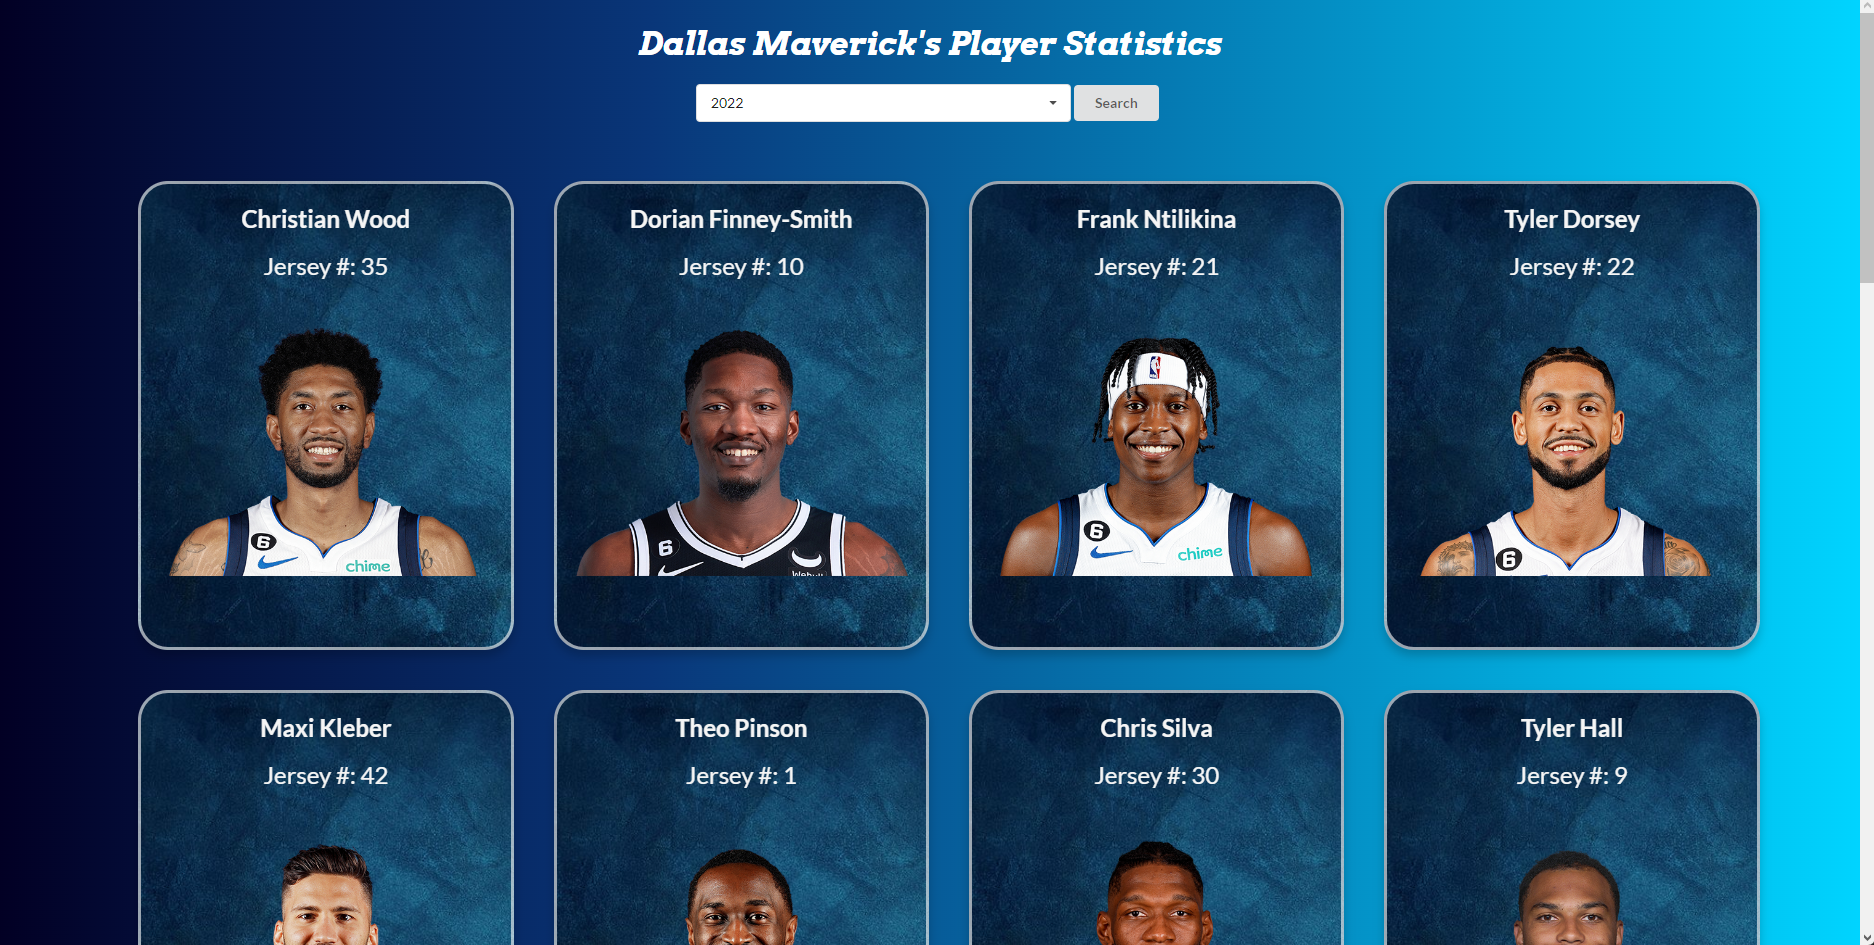
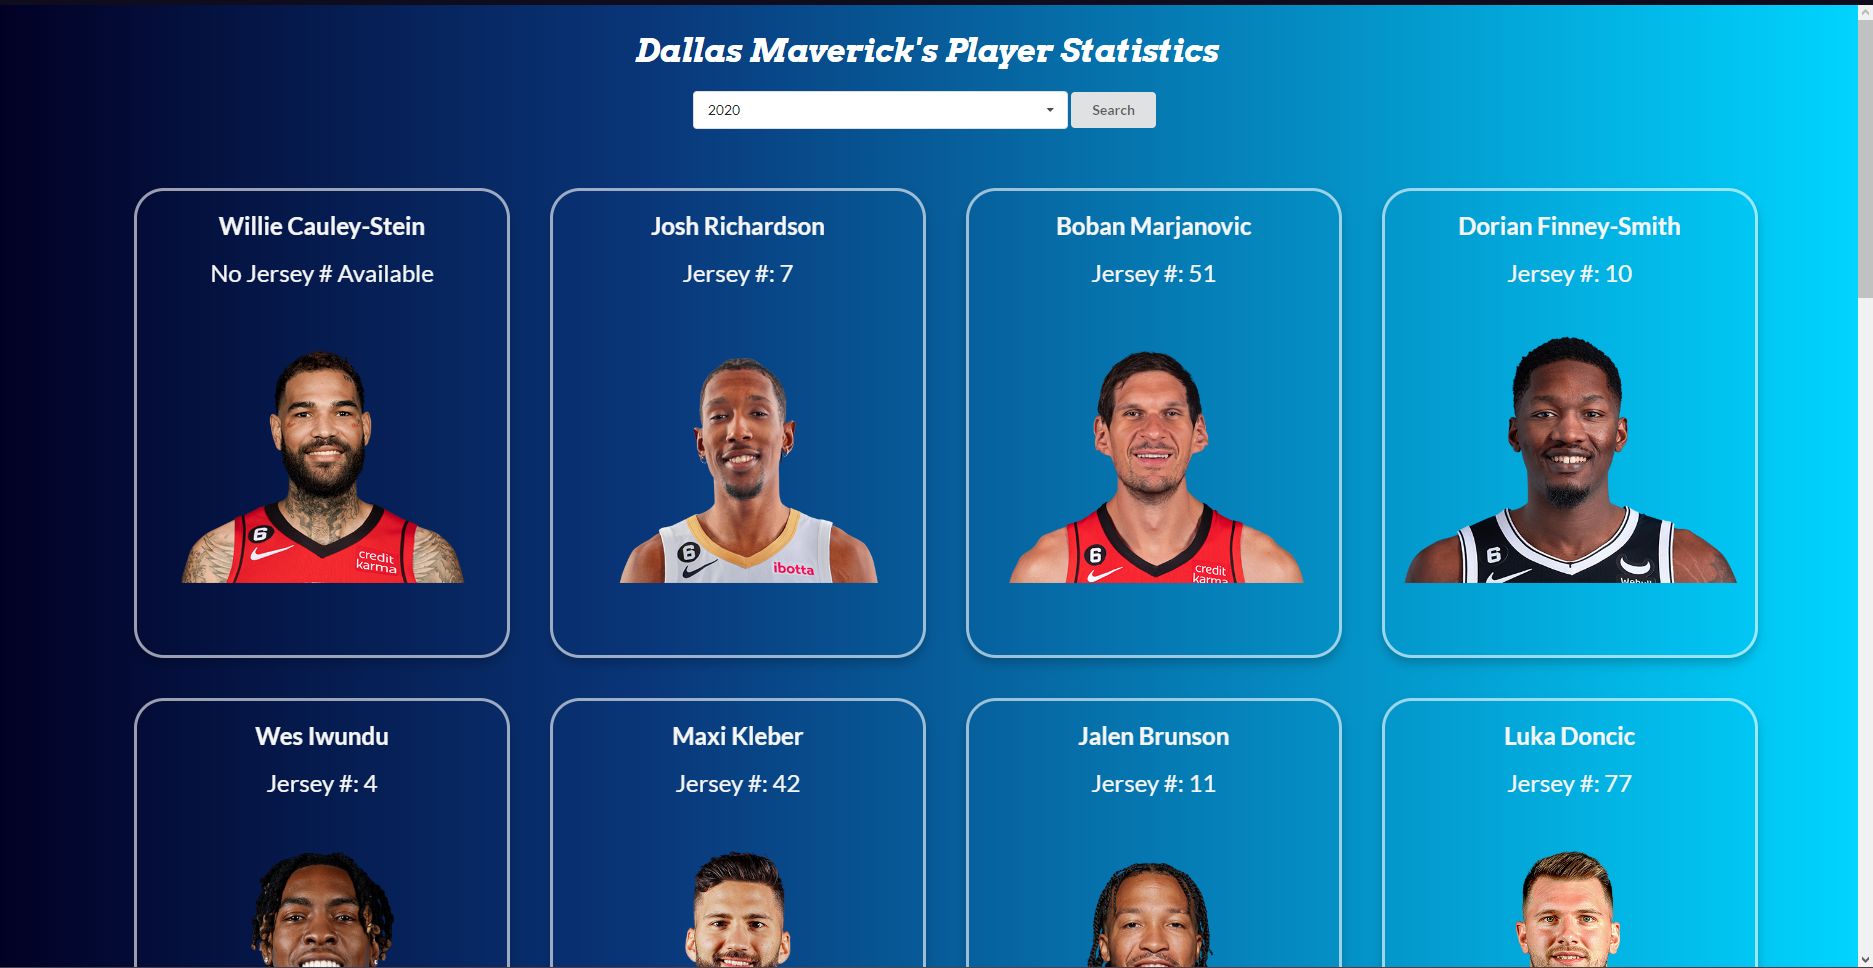
removed background image and updated README

diff --git a/assets/css/style.css b/assets/css/style.css
@@ -47,9 +47,6 @@ p {
     width:20vw;
     height:25vw;
     margin:20px;
-    background-image: url(/assets/images/back-ground-picture.png);
-    background-repeat: repeat;
-    background-size: cover;
     border-radius: 30px;
     border-style: solid;
     border-color: rgba(255, 255, 255, 0.6);
